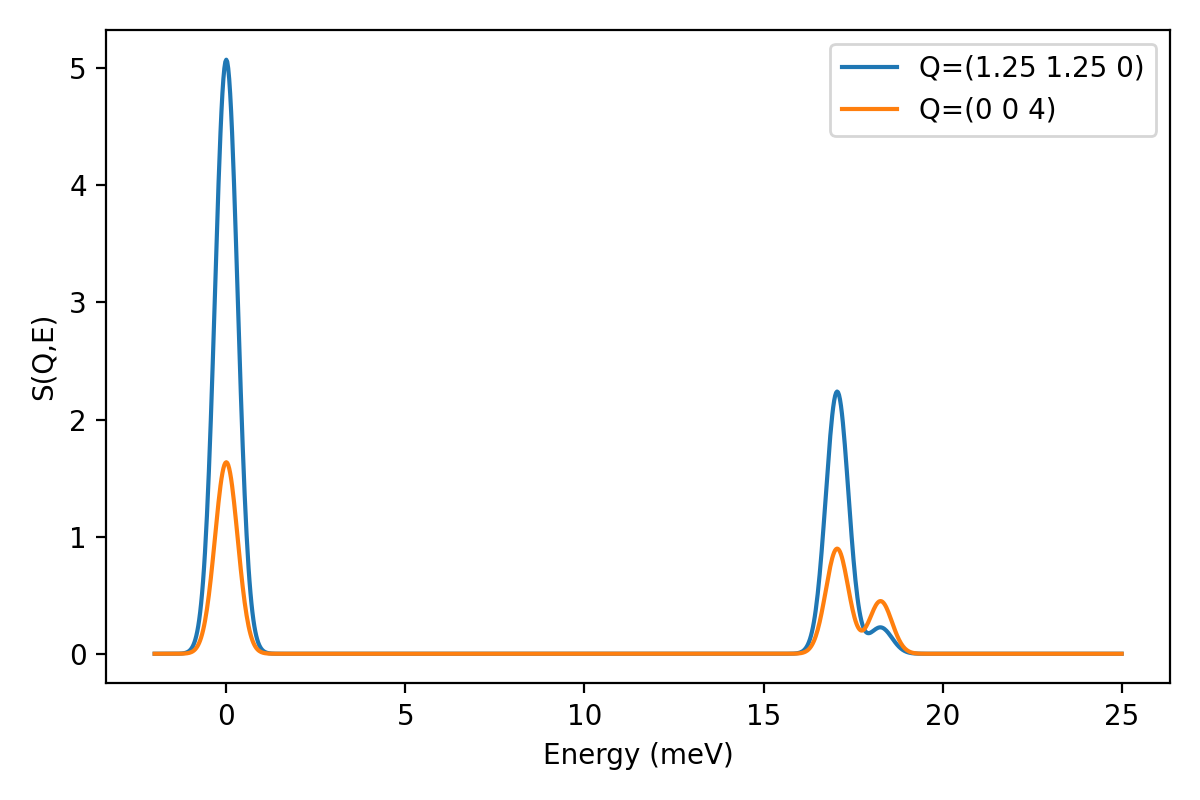
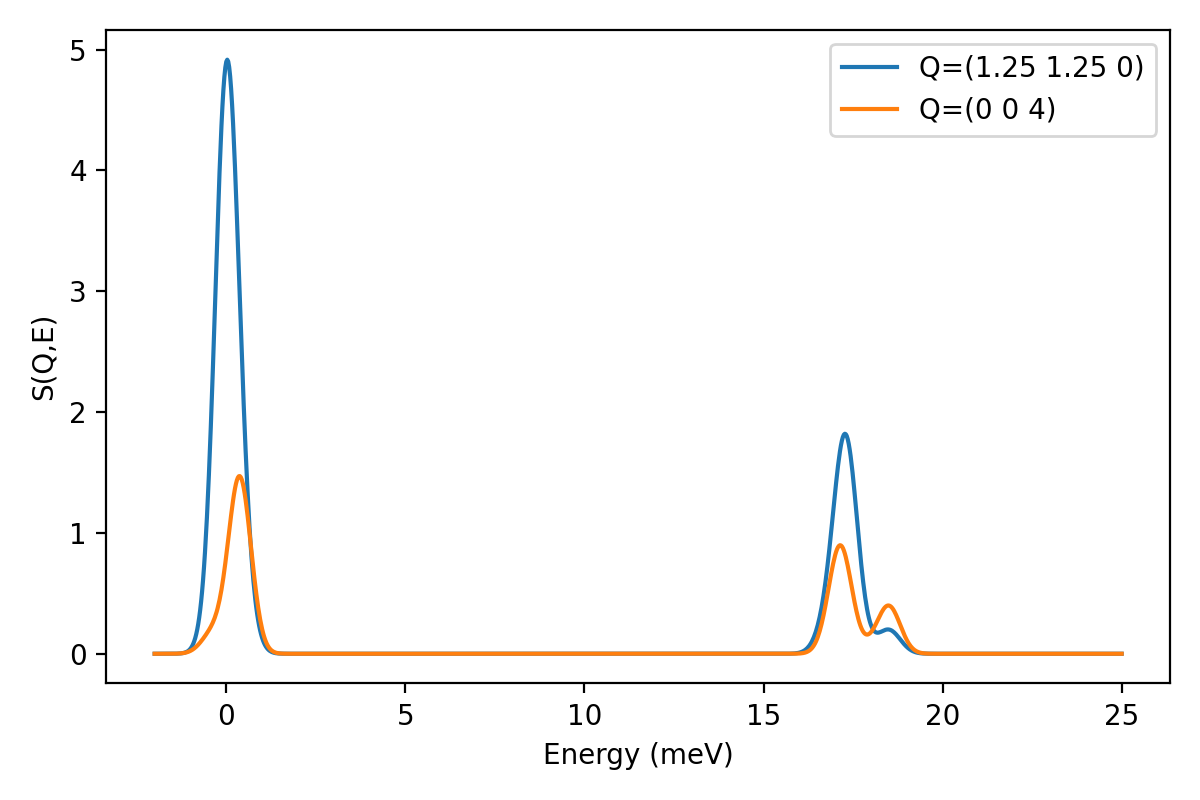
Fix #7

diff --git a/examples/CeCu2Ge2.py b/examples/CeCu2Ge2.py
@@ -25,7 +25,7 @@ num_simulations = 100000
 # Calculated results: E1=7.091 meV, E2=11.772 meV
 
 CEFpars = ms.crysfipy.CEFpars('D4', [-10.26, -0.056, 2.67], 'K')
-cefion = ms.crysfipy.CEFion(ms.crysfipy.Ion('Ce'),[0,0,0], CEFpars, diagonalize=False)
+cefion = ms.crysfipy.CEFion(ms.crysfipy.Ion('Ce'),[0,0,2], CEFpars, diagonalize=False)
 cefion.diagonalize(shiftToZero=False)
 
 print(cefion.cfp)
@@ -49,7 +49,11 @@ if calculateTAS:
         De, Dint = ms.crysfipy.neutronint(cefion,temperature, Q=Q, Ei=1.1*np.max(e), scheme='single-crystal')
        
         
-        mainTransitions = (np.where(Dint> 0.01*np.max(Dint)))
+        mainTransitions = np.where(Dint> 0.01*np.max(Dint))[0]
+        print(f'Main transitions for the direction {hkl}')
+        print(f'E\t\tI')
+        for it in mainTransitions:
+            print(f'{De[it]}\t{Dint[it]}')
         
         sigma=0.1
         spectrum = np.zeros(e.shape)

diff --git a/mikibox/crysfipy/observables.py b/mikibox/crysfipy/observables.py
@@ -21,7 +21,7 @@ def boltzman_population(energies: list[float], temperature: float) -> list[float
         List of occupation probabilities for each energy level.
     '''
     
-    p = np.exp(-np.array(energies)*C.meV2K/temperature)
+    p = np.exp(-np.array(energies - min(energies))*C.meV2K/temperature)
     Z = sum(p)
     return p / Z
 
